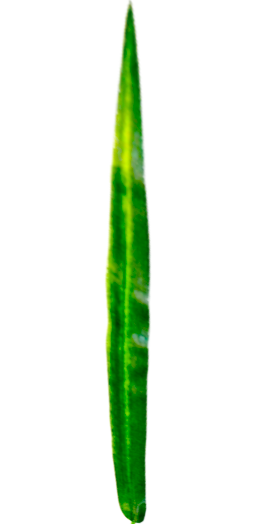
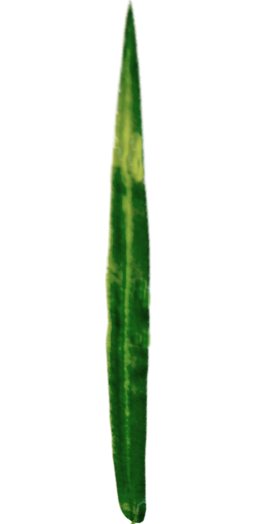
Added coconut model

Changed region(s): [[0.4062, 0.0, 0.5938, 1.0]]

diff --git a/src/garden.ts b/src/garden.ts
@@ -7,6 +7,7 @@ export const preset_paths : Record<string, string> = {
   "Weeping Willow": import.meta.env.BASE_URL + "/garden/weeping_willow.json",
   "Araucária": import.meta.env.BASE_URL + "/garden/araucaria.json",
   "Mangrove": import.meta.env.BASE_URL + "/garden/mangrove.json",
+  "Coconut Tree": import.meta.env.BASE_URL + "/garden/coconut.json",
 };
 
 async function loadAllPresets(): Promise<Record<string, TreeParams>> {